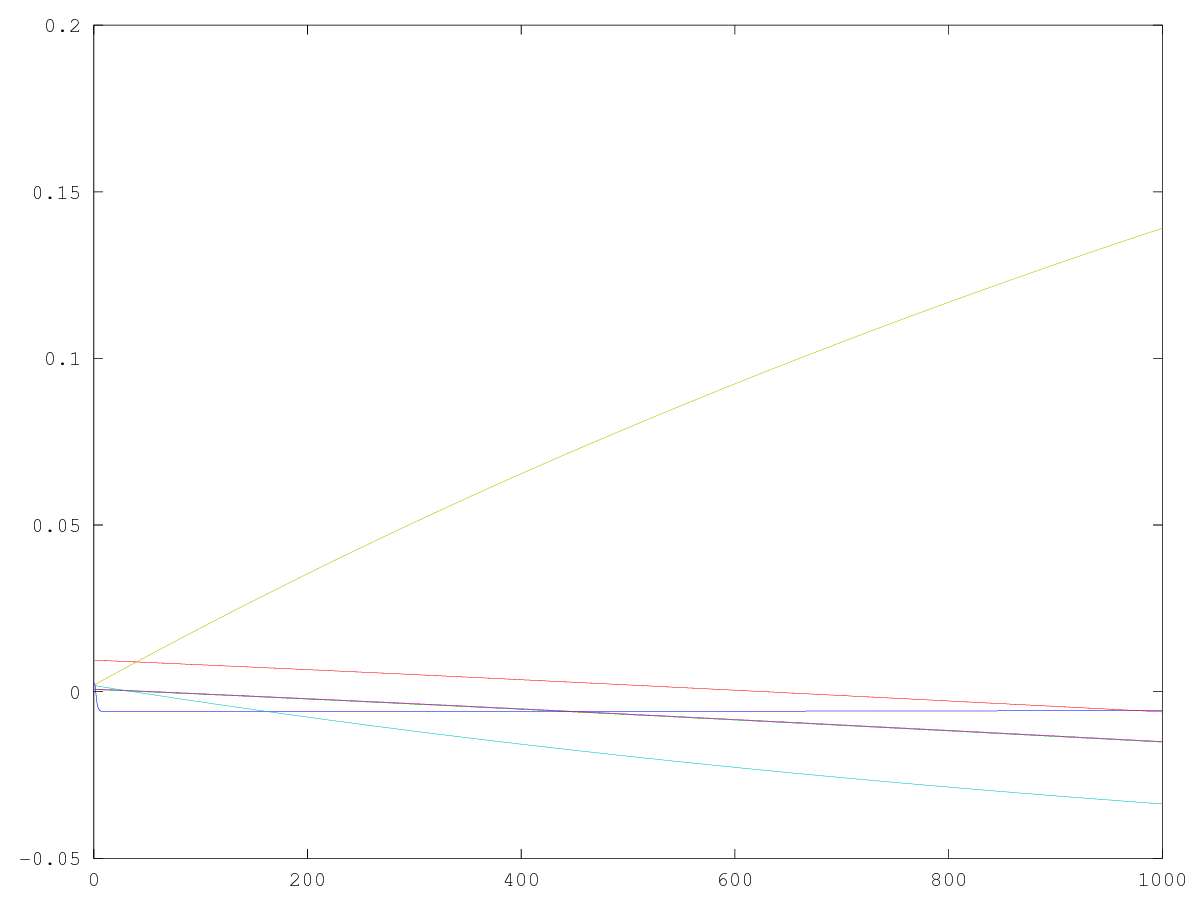
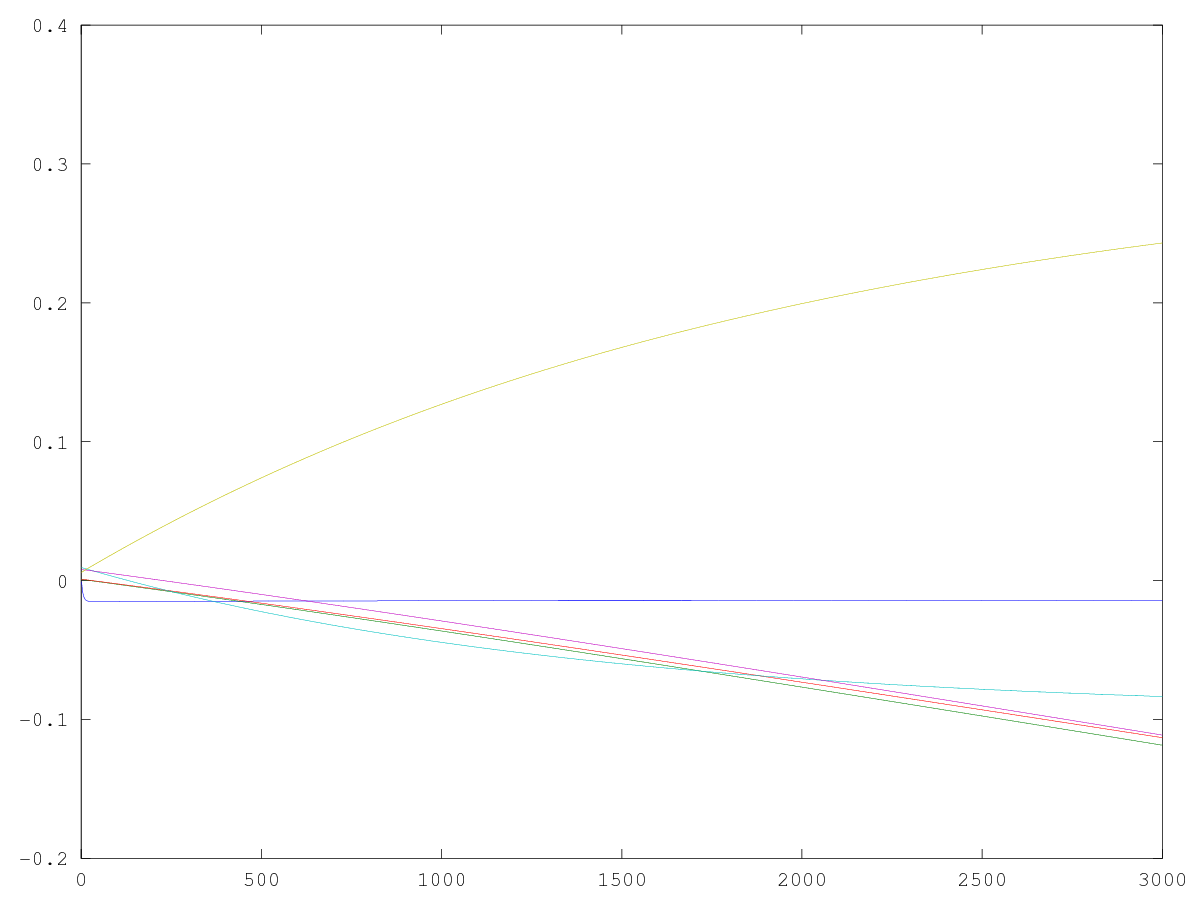
Trec big small gamma experiment

diff --git a/octave-src/sample/TREC-BIG/GAMMA=SMALL/model.m b/octave-src/sample/TREC-BIG/GAMMA=SMALL/model.m
@@ -1,13 +1,13 @@
-# Created by Octave 4.0.0, Sun Jul 01 03:13:43 2018 UTC <ubuntu@trec-big>
+# Created by Octave 4.0.0, Thu Jul 26 23:32:33 2018 UTC <ubuntu@lsat>
 # name: omega
 # type: matrix
 # rows: 6
 # columns: 1
- -0.005713775741867065
- -0.01512388190962808
- -0.006069281304617184
- -0.03368249859809592
- -0.01495017267283908
- 0.1390547681261108
+ -0.01416198164566587
+ -0.1185354498315318
+ -0.1131292228832611
+ -0.08348094604029138
+ -0.1112552660868232
+ 0.243114305966621
 
 
